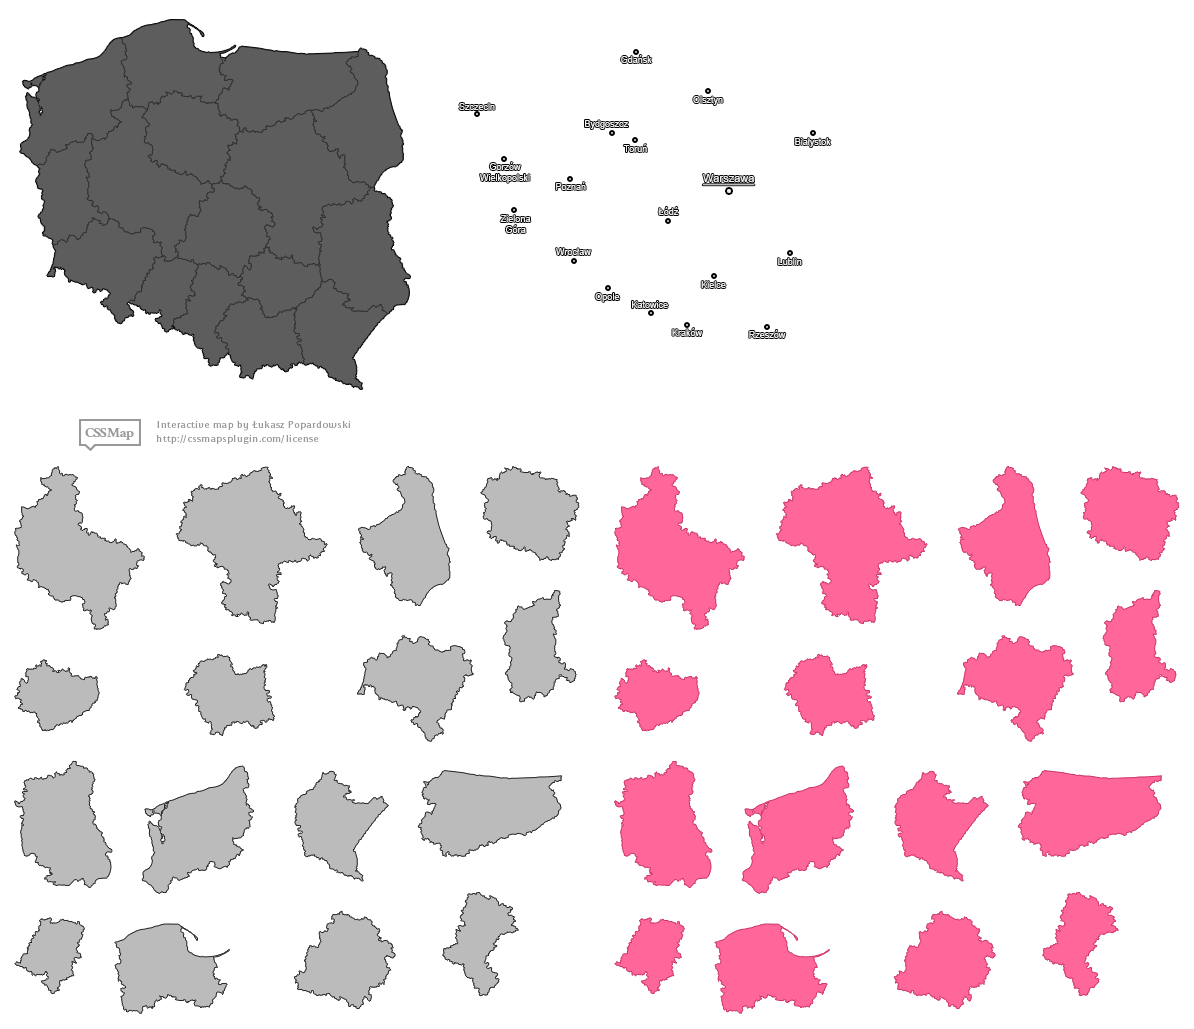
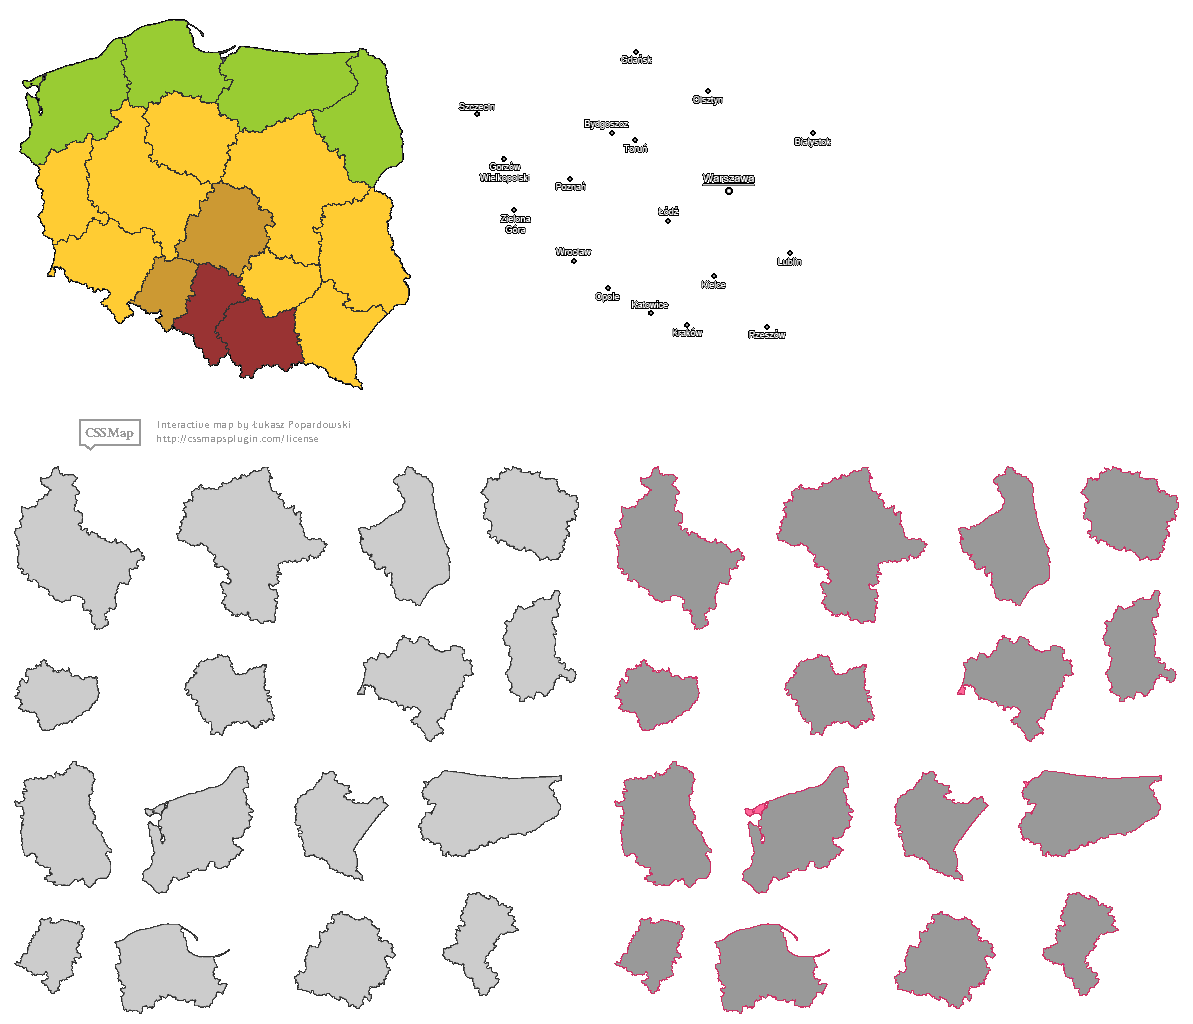
Added colors to map

diff --git a/templates/Poland.html b/templates/Poland.html
@@ -35,6 +35,7 @@
   <header class="page-header">
    <div class="wrapper">
     <h1>Poland</h1>
+       Number of days with exceeding the daily MP10 concentration
 
     <!-- MAIN MENU -->
     <nav id="main-menu" class="main-menu-list">
@@ -56,6 +57,9 @@
         <li><a href="#section-swietokrzyskie" class="in-nav">Holy Cross Province</a></li>
         <li><a href="#section-warminskomazurskie" class="in-nav">Warmia-Masuria</a></li>
         <li><a href="#section-zachodniopomorskie" class="in-nav">West pomerania</a></li>
+          <li><a href="#section-info" class="in-nav">Informations</a></li>
+
+
 
 
 
@@ -137,85 +141,92 @@
     <section id="section-wielkopolska" class="wrapper">
      <hr />
       <h2>Greater Poland</h2>
+        40
         <li>Check if there're no errors in the "Error console" of your browser.</li>
 
     <!-- SECTION Dolnyslask -->
     <section id="section-dolnoslaskie" class="wrapper">
      <hr />
       <h2>Lower Silesia</h2>
-
+        45
     <!-- SECTION Slask -->
     <section id="section-slaskie" class="wrapper">
      <hr />
       <h2>Silesia</h2>
-
+        72
     <!-- SECTION kujawy -->
     <section id="section-kujawsko-pomorskie" class="wrapper">
      <hr />
       <h2>Kuyavian-Pomeranian</h2>
-
+        40
     <!-- SECTION lubelskie -->
     <section id="section-lubelskie" class="wrapper">
      <hr />
       <h2>Lublin</h2>
-
+        42
     <!-- SECTION lubuskie -->
     <section id="section-lubuskie" class="wrapper">
      <hr />
       <h2>Lubusz</h2>
-
+        34
 
     <!-- SECTION lodzkie -->
     <section id="section-lodzkie" class="wrapper">
      <hr />
       <h2>lodz</h2>
-
+        58
     <!-- SECTION malopolskie -->
     <section id="section-malopolskie" class="wrapper">
      <hr />
       <h2>Lesser Poland</h2>
-
+        76
     <!-- SECTION mazowieckie -->
     <section id="section-mazowieckie" class="wrapper">
      <hr />
       <h2>Masovia</h2>
-
+        40
     <!-- SECTION opolskie -->
     <section id="section-opolskie" class="wrapper">
      <hr />
       <h2>Opole</h2>
-
+        58
     <!-- SECTION podkarpackie -->
     <section id="section-podkarpackie" class="wrapper">
      <hr />
       <h2>Subcarpathia</h2>
-
+        48
 
     <!-- SECTION podlaskie -->
     <section id="section-podlaskie" class="wrapper">
      <hr />
       <h2>Podlaskie</h2>
-
+        11
     <!-- SECTION pomorskie -->
     <section id="section-pomorskie" class="wrapper">
      <hr />
       <h2>Pomerania</h2>
-
+        18
     <!-- SECTION swietokrzyskie -->
     <section id="section-swietokrzyskie" class="wrapper">
      <hr />
       <h2>Holy Cross Province</h2>
-
+        47
     <!-- SECTION warminskomazurskie -->
     <section id="section-warminskomazurskie" class="wrapper">
      <hr />
       <h2>Warmia-Masuria</h2>
-
+        22
     <!-- SECTION zachodniopomorskie -->
     <section id="section-zachodniopomorskie" class="wrapper">
      <hr />
       <h2>West Pomerania</h2>
+        20
 
+        <!-- SECTION info -->
+    <section id="section-info" class="wrapper">
+     <hr />
+      <h2>Informations</h2>
+        All data was downloaded from the website of <a href="https://www.nik.gov.pl/aktualnosci/dbaj-o-zdrowie-nie-oddychaj.html"> the Supreme Audit Office </a>
 
    </div><!-- END .wrapper -->
       <!-- MAP SETTINGS -->

diff --git a/static/css/map.css b/static/css/map.css
@@ -102,4 +102,3 @@ h2 {
 .mapael .zoomOut {
     top: 50px;
 }
-        
